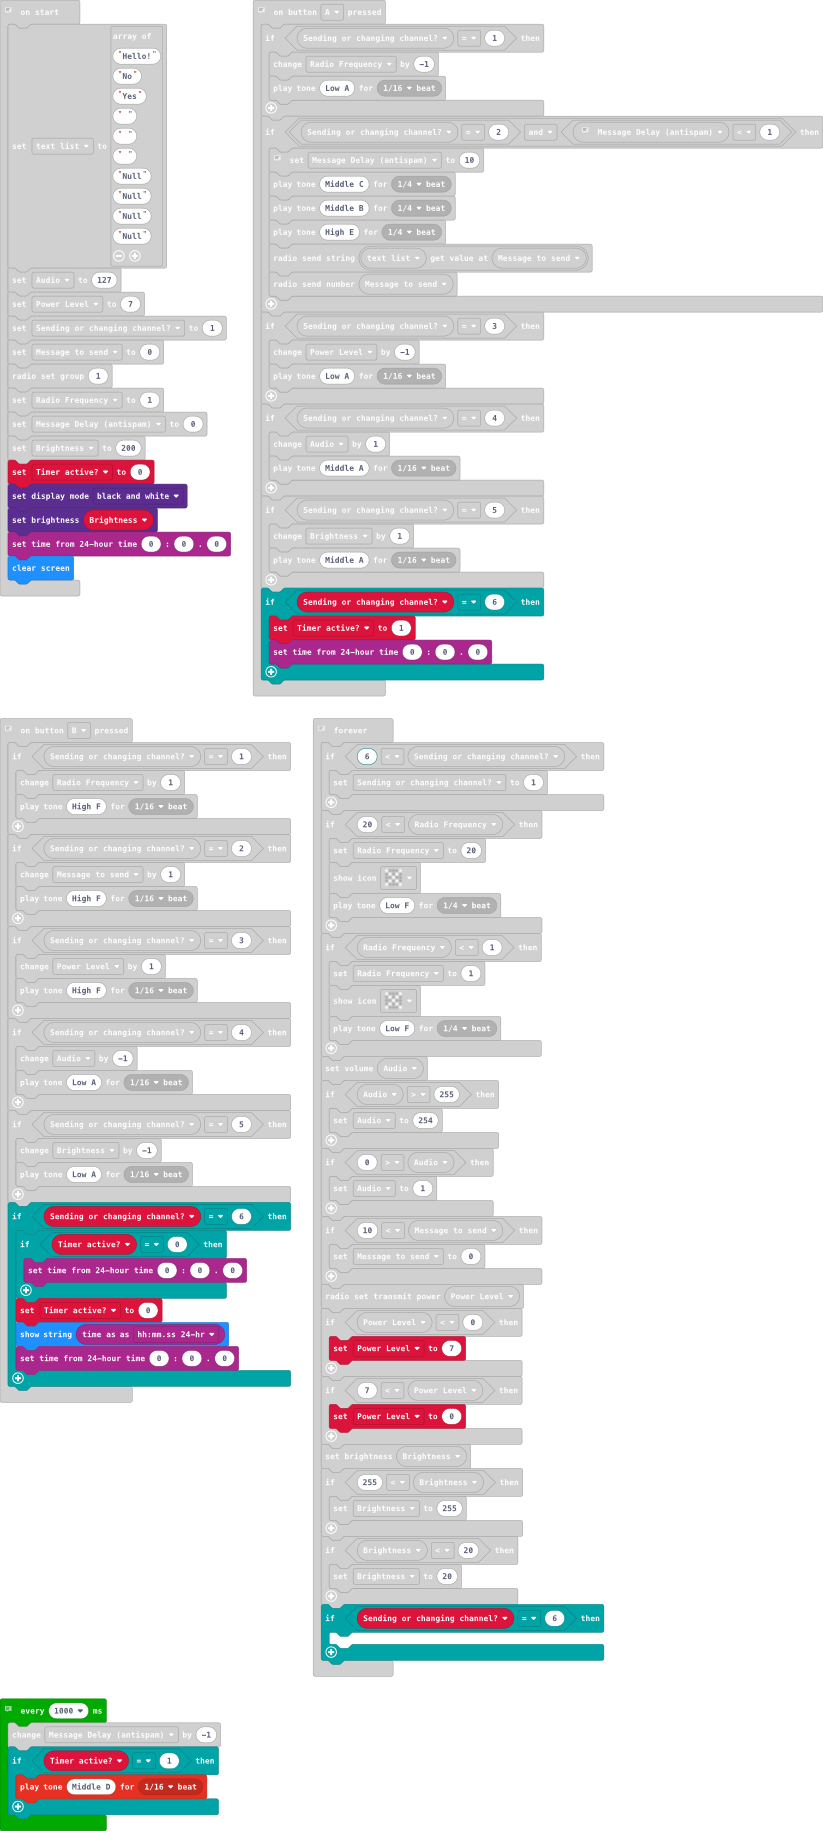
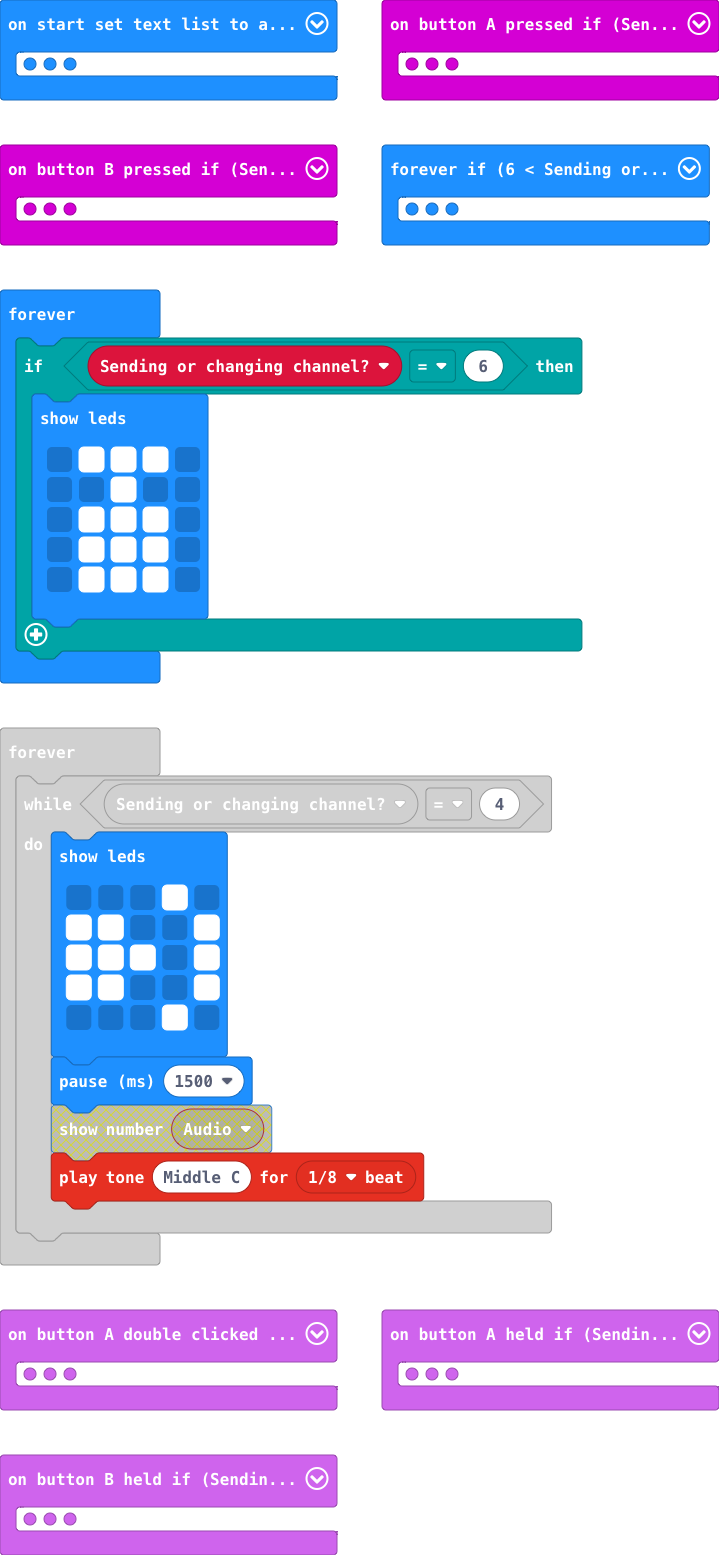
Added stopwatch with new screens for audio mode and stopwatch mode

diff --git a/main.ts b/main.ts
@@ -1,6 +1,97 @@
 enum RadioMessage {
     message1 = 49434
 }
+// This is the button B code. Same logic applies for this as button A but it has different functions. This one just increases the variable in the mode selected by 1.
+input.onButtonPressed(Button.B, function () {
+    if (Sending_or_changing_channel == 1) {
+        Radio_Frequency += 1
+        music.playTone(698, music.beat(BeatFraction.Sixteenth))
+    }
+    if (Sending_or_changing_channel == 2) {
+        Message_to_send += 1
+        music.playTone(698, music.beat(BeatFraction.Sixteenth))
+    }
+    if (Sending_or_changing_channel == 3) {
+        Power_Level += 1
+        music.playTone(698, music.beat(BeatFraction.Sixteenth))
+    }
+    if (Sending_or_changing_channel == 4) {
+        Audio += -1
+        music.playTone(220, music.beat(BeatFraction.Sixteenth))
+    }
+    if (Sending_or_changing_channel == 5) {
+        Brightness += -1
+        music.playTone(220, music.beat(BeatFraction.Sixteenth))
+    }
+    if (Sending_or_changing_channel == 6) {
+        if (Timer_active == 0) {
+            timeanddate.set24HourTime(0, 0, 0)
+        }
+        Timer_active = 0
+        basic.showString(timeanddate.time(timeanddate.TimeFormat.HHMMSS24hr))
+        timeanddate.set24HourTime(0, 0, 0)
+    }
+})
+buttonClicks.onButtonHeld(buttonClicks.AorB.A, function () {
+    if (Sending_or_changing_channel == 4) {
+        Audio += 10
+        music.playTone(440, music.beat(BeatFraction.Sixteenth))
+    }
+    if (Sending_or_changing_channel == 5) {
+        Brightness += 10
+        music.playTone(440, music.beat(BeatFraction.Sixteenth))
+    }
+})
+buttonClicks.onButtonHeld(buttonClicks.AorB.B, function () {
+    if (Sending_or_changing_channel == 4) {
+        Audio += -10
+        music.playTone(220, music.beat(BeatFraction.Whole))
+    }
+    if (Sending_or_changing_channel == 5) {
+        Brightness += -10
+        music.playTone(220, music.beat(BeatFraction.Whole))
+    }
+})
+buttonClicks.onButtonDoubleClicked(buttonClicks.AorB.A, function () {
+    basic.showNumber(Audio)
+})
+// Emoji List!
+radio.onReceivedNumber(function (receivedNumber) {
+    if (receivedNumber == 3) {
+        basic.showLeds(`
+            # # . # #
+            # # . # #
+            . . . . .
+            # . . . #
+            . # # # .
+            `)
+    }
+    if (receivedNumber == 4) {
+        basic.showLeds(`
+            # # . # #
+            # # . # #
+            . # # # .
+            # . . . #
+            . # # # .
+            `)
+    }
+    if (receivedNumber == 5) {
+        basic.showIcon(IconNames.Heart)
+    }
+})
+input.onLogoEvent(TouchButtonEvent.Pressed, function () {
+    basic.showNumber(Steps)
+})
+// This is the code where it shows you the string you have received from someone on the same channel
+radio.onReceivedString(function (receivedString) {
+    if (Message_to_send != 3) {
+        if (Message_to_send != 4) {
+            if (Message_to_send != 5) {
+                basic.showString(receivedString)
+            }
+        }
+    }
+})
 // This is button A code. The "ifs" check if the variable "Sending or changing channel?" Is equal to one so it enters channel mode, 2 for message to channel, and 3 for power level.
 input.onButtonPressed(Button.A, function () {
     if (Sending_or_changing_channel == 1) {
@@ -34,84 +125,6 @@ input.onButtonPressed(Button.A, function () {
         timeanddate.set24HourTime(0, 0, 0)
     }
 })
-// Emoji List!
-radio.onReceivedNumber(function (receivedNumber) {
-    if (receivedNumber == 3) {
-        basic.showLeds(`
-            # # . # #
-            # # . # #
-            . . . . .
-            # . . . #
-            . # # # .
-            `)
-    }
-    if (receivedNumber == 4) {
-        basic.showLeds(`
-            # # . # #
-            # # . # #
-            . # # # .
-            # . . . #
-            . # # # .
-            `)
-    }
-    if (receivedNumber == 5) {
-        basic.showIcon(IconNames.Heart)
-    }
-})
-input.onLogoEvent(TouchButtonEvent.Pressed, function () {
-    basic.showNumber(Steps)
-})
-buttonClicks.onButtonHeld(buttonClicks.AorB.B, function () {
-    if (Sending_or_changing_channel == 4) {
-        Audio += -10
-        music.playTone(220, music.beat(BeatFraction.Whole))
-    }
-    if (Sending_or_changing_channel == 5) {
-        Brightness += -10
-        music.playTone(220, music.beat(BeatFraction.Whole))
-    }
-})
-// This is the button B code. Same logic applies for this as button A but it has different functions. This one just increases the variable in the mode selected by 1.
-input.onButtonPressed(Button.B, function () {
-    if (Sending_or_changing_channel == 1) {
-        Radio_Frequency += 1
-        music.playTone(698, music.beat(BeatFraction.Sixteenth))
-    }
-    if (Sending_or_changing_channel == 2) {
-        Message_to_send += 1
-        music.playTone(698, music.beat(BeatFraction.Sixteenth))
-    }
-    if (Sending_or_changing_channel == 3) {
-        Power_Level += 1
-        music.playTone(698, music.beat(BeatFraction.Sixteenth))
-    }
-    if (Sending_or_changing_channel == 4) {
-        Audio += -1
-        music.playTone(220, music.beat(BeatFraction.Sixteenth))
-    }
-    if (Sending_or_changing_channel == 5) {
-        Brightness += -1
-        music.playTone(220, music.beat(BeatFraction.Sixteenth))
-    }
-    if (Sending_or_changing_channel == 6) {
-        if (Timer_active == 0) {
-            timeanddate.set24HourTime(0, 0, 0)
-        }
-        Timer_active = 0
-        basic.showString(timeanddate.time(timeanddate.TimeFormat.HHMMSS24hr))
-        timeanddate.set24HourTime(0, 0, 0)
-    }
-})
-// This is the code where it shows you the string you have received from someone on the same channel
-radio.onReceivedString(function (receivedString) {
-    if (Message_to_send != 3) {
-        if (Message_to_send != 4) {
-            if (Message_to_send != 5) {
-                basic.showString(receivedString)
-            }
-        }
-    }
-})
 // Add +1 to "Sending or changing channel?" This therefore switches the mode from channel to send message and from send message to configure signal strength and from signal strength back to channel
 input.onButtonPressed(Button.AB, function () {
     Sending_or_changing_channel += 1
@@ -121,22 +134,13 @@ input.onButtonPressed(Button.AB, function () {
 input.onGesture(Gesture.Shake, function () {
     Steps += 1
 })
-buttonClicks.onButtonHeld(buttonClicks.AorB.A, function () {
-    if (Sending_or_changing_channel == 4) {
-        Audio += 10
-        music.playTone(440, music.beat(BeatFraction.Sixteenth))
-    }
-    if (Sending_or_changing_channel == 5) {
-        Brightness += 10
-        music.playTone(440, music.beat(BeatFraction.Sixteenth))
-    }
-})
 // Hello! Welcome to this "simple" micro:bit program, I Andrei am making, basically, what this is, is a simple radio communication software that lets you switch from channels 0-20 to communicate with other microbits, setting your channels on 10 means you send on channel 10 and recieve from channel 10 and the same logic applies to the rest. The chat functions are basic and very short to make up for the 5x5 led screen of the micro:bit, I like the micro:bit having this limitation as it teaches you to think outside of the box. For example, the screen shows slowly so, if one were to quickly spam the channels, then it'd show their current channel very slowly, so, I'll make my own 20 led pixel screens to show which channel you are on. The default channel is 1. You can change the "Null" blocks to something else that you want to put there, so far, "Hello!", "No", "Yes" text messages exist. But you can allocate only 3,4 and 5 because the rest haven't been programmed yet. This place is also where everything gets initialized before the program fully starts
 let Steps = 0
 let Timer_active = 0
 let Message_Delay_antispam = 0
 let Message_to_send = 0
 let Sending_or_changing_channel = 0
+let Audio = 0
 let text_list: string[] = []
 text_list = [
 "Hello!",
@@ -150,7 +154,7 @@ text_list = [
 "Null",
 "Null"
 ]
-let Audio = 127
+Audio = 127
 let Power_Level = 7
 Sending_or_changing_channel = 1
 Message_to_send = 0
@@ -214,6 +218,17 @@ basic.forever(function () {
     }
 })
 basic.forever(function () {
+    if (Sending_or_changing_channel == 6) {
+        basic.showLeds(`
+            . # # # .
+            . . # . .
+            . # # # .
+            . # # # .
+            . # # # .
+            `)
+    }
+})
+basic.forever(function () {
     if (Sending_or_changing_channel == 5) {
         basic.showLeds(`
             # # # # #
@@ -226,8 +241,15 @@ basic.forever(function () {
 })
 basic.forever(function () {
     while (Sending_or_changing_channel == 4) {
+        basic.showLeds(`
+            . . . # .
+            # # . . #
+            # # # . #
+            # # . . #
+            . . . # .
+            `)
         basic.pause(1500)
-        basic.showNumber(Audio)
+        music.playTone(262, music.beat(BeatFraction.Eighth))
     }
 })
 // This is the display code for power level. It also, just like it's message and channel brothers. It uses the same principle for the display as them.
